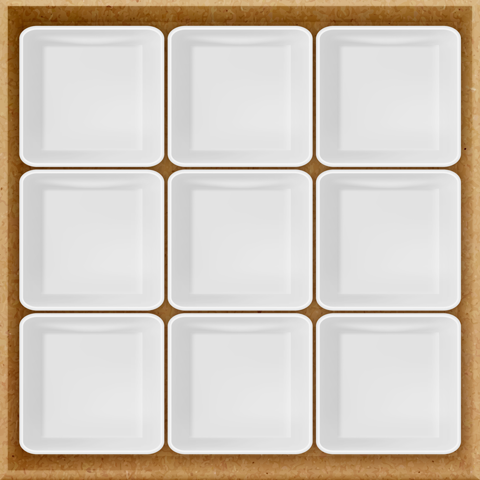
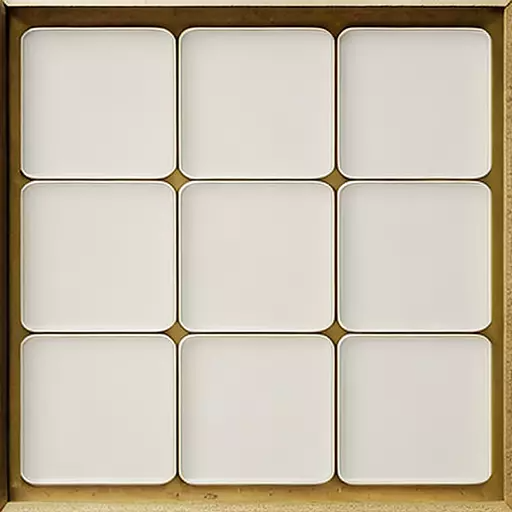
更新備註 更換禮盒圖片

diff --git a/FrontStage/frontend/src/screens/OrderScreen.js b/FrontStage/frontend/src/screens/OrderScreen.js
@@ -9,7 +9,7 @@ import Col from 'react-bootstrap/Col';
 import ListGroup from 'react-bootstrap/ListGroup';
 import Card from 'react-bootstrap/Card';
 import { Link } from 'react-router-dom';
-import LoadingBox from '../components/LoadingBox';
+import Loading from '../components/Loading';
 import MessageBox from '../components/MessageBox';
 import { Store } from '../Store';
 import { useState } from 'react';
@@ -66,10 +66,12 @@ export default function OrderScreen() {
   const { id: orderId } = params;
   console.log(orderId);
   const navigate = useNavigate();
-  //
+
   const [isLoading, setIsLoading] = useState(true);
 
+  //設定初始值
   const [{ loading, error, order, successPay, loadingPay }, dispatch] =
+    //useReducer是一個function 用來更新state 這裡的reducer是一個function 上面有定義
     useReducer(reducer, {
       loading: true,
       order: {},
@@ -77,26 +79,36 @@ export default function OrderScreen() {
       successPay: false,
       loadingPay: false,
     });
-
+  //usePayPalScriptReducer是一個function 用來更新state 來自@paypal/react-paypal-js
+  //isPending是一個布林值 用來判斷是否正在載入
   const [{ isPending }, paypalDispatch] = usePayPalScriptReducer();
 
+  //createOrder是一個function 用來創建訂單 來自@paypal/react-paypal-js data是一個物件 用來傳遞訂單資訊 actions是一個物件 用來創建訂單
   function createOrder(data, actions) {
-    return actions.order
-      .create({
-        purchase_units: [
-          {
-            amount: {
-              value: order.total_price,
+    return (
+      actions.order
+        //create是一個function 用來創建訂單 來自@paypal/react-paypal-js
+        .create({
+          //purchase_units是一個陣列 用來傳遞訂單資訊
+          purchase_units: [
+            {
+              //amount是一個物件 用來傳遞訂單金額
+              amount: {
+                //value是一個數字 用來傳遞訂單金額
+                value: order.total_price,
+              },
             },
-          },
-        ],
-      })
-      .then((orderID) => {
-        return orderID;
-      });
+          ],
+        })
+        //then是一個function 用來傳遞訂單id  來自@paypal/react-paypal-js
+        .then((orderID) => {
+          return orderID;
+        })
+    );
   }
-
+  //onApprove是一個function 用來傳遞訂單資訊 來自@paypal/react-paypal-js
   function onApprove(data, actions) {
+    //actions.order.capture().then代表當訂單被捕獲時執行以下程式碼
     return actions.order.capture().then(async function (details) {
       try {
         dispatch({ type: 'PAY_REQUEST' });
@@ -127,17 +139,21 @@ export default function OrderScreen() {
   }
 
   useEffect(() => {
+    //fetchOrder是一個function 用來獲取訂單資訊 來自@paypal/react-paypal-js
     const fetchOrder = async () => {
       try {
+        //dispatch是一個function 用來更新state 這裡的dispatch是一個function 上面有定義
         dispatch({ type: 'FETCH_REQUEST' });
         //改
         const { data } = await axios.get(`/api/orders/${orderId}`, {
           headers: { authorization: `Bearer ${userInfo.token}` },
         });
+        //data.order_items是一個字串 用來傳遞訂單商品資訊
         data.order_items = JSON.parse(data.order_items);
         data.shipping_address = JSON.parse(data.shipping_address);
         console.log(data.shipping_address);
 
+        //data.order_items是一個陣列 用來傳遞訂單商品資訊
         data.orderItems = data.order_items.map((item) => {
           return {
             _id: item._id,
@@ -162,6 +178,7 @@ export default function OrderScreen() {
       }
     };
 
+    //userInfo是一個物件 用來傳遞使用者資訊
     if (!userInfo) {
       navigate('/login');
     }
@@ -209,15 +226,19 @@ export default function OrderScreen() {
     order.id,
   ]);
 
+  // 如果載入中，顯示Loading
   return loading ? (
-    <LoadingBox></LoadingBox>
-  ) : error ? (
+    <Loading></Loading>
+  ) : // 如果載入失敗，顯示錯誤訊息
+  error ? (
     <MessageBox variant="danger">{error}</MessageBox>
   ) : (
+    // 如果載入成功，顯示訂單資訊
     <Container className="small-container mb-5">
       <Helmet>
         <title>訂單 | 拾月菓 {orderId}</title>
       </Helmet>
+      {/* //PayPalScriptProvider是一個function 用來載入PayPal script 來自@paypal/react-paypal-js */}
       <PayPalScriptProvider options={{ 'client-id': clientId }}>
         <h1 className="my-3">訂單編號 {orderId}</h1>
         <Row>
@@ -329,7 +350,7 @@ export default function OrderScreen() {
                   {!order.is_paid && (
                     <ListGroup.Item>
                       {isPending ? (
-                        <LoadingBox />
+                        <Loading />
                       ) : (
                         <div>
                           <PayPalButtons
@@ -339,7 +360,7 @@ export default function OrderScreen() {
                           ></PayPalButtons>
                         </div>
                       )}
-                      {loadingPay && <LoadingBox></LoadingBox>}
+                      {loadingPay && <Loading></Loading>}
                     </ListGroup.Item>
                   )}
                 </ListGroup>

diff --git a/FrontStage/frontend/src/screens/CartScreen.js b/FrontStage/frontend/src/screens/CartScreen.js
@@ -87,7 +87,9 @@ export default function CartScreen() {
     return map;
   }, {});
 
+  //切換展開的禮盒
   const toggleProductContent = (itemId, giftBoxType) => {
+    //判斷是否展開 如果展開則關閉，如果沒有展開則展開
     if (expandedProduct === itemId) {
       setExpandedProduct(null);
     } else {
@@ -96,7 +98,9 @@ export default function CartScreen() {
     }
   };
 
+  //更新購物車產品數量 這裡的item是從CartScreen.js中的updateCartHandler(item, quantity)傳過來的
   const updateCartHandler = async (item, quantity) => {
+    //如果產品數量小於1，則從購物車中刪除產品
     const { data } = await axios.get(`/api/products/${item._id}`);
     if (data.countInStock < quantity) {
       // swal({
@@ -147,7 +151,9 @@ export default function CartScreen() {
 
   const plus = (item) => {
     if (!MaxHandler(item)) {
+      //這裡的setInput是用來更新input的值 這裡的input是用來顯示產品數量的
       setInput(parseInt(input) + 1);
+      //這裡的updateCartHandler是用來更新購物車產品數量的
       updateCartHandler(item, item.quantity + 1);
     }
     if (item.quantity === 0) {
@@ -174,6 +180,9 @@ export default function CartScreen() {
       updateCartHandler(item, item.quantity - 1);
     }
   };
+  //判斷是否登入 未登入則跳轉到登入頁面
+  //判斷是否登入 未登入則跳轉到登入頁面
+  //判斷是否登入 未登入則跳轉到登入頁面
   const checkoutHandler = () => {
     navigate('/signin?redirect=/shipping');
   };
@@ -391,11 +400,15 @@ export default function CartScreen() {
                                 ? productMap6
                                 : productMap9;
 
+                            //這裡的Object.entries()是用來返回一個給定物件自身可枚舉屬性的鍵值對數組 這裡的productCounts是一個對象 { 產品_id: 產品數量 }
+                            //詳細解釋Object.entries() https://developer.mozilla.org/zh-TW/docs/Web/JavaScript/Reference/Global_Objects/Object/entries
                             return Object.entries(productCounts).map(
                               ([productId, product]) => {
+                                //這裡的 product.count是產品的數量
                                 const count = product.count;
 
                                 return (
+                                  //如果產品的數量大於0，則顯示產品的圖片和數量
                                   count > 0 && (
                                     <div
                                       key={productId}
@@ -406,6 +419,7 @@ export default function CartScreen() {
                                         alt={`selected product ${productId}`}
                                         className="selected-product-image"
                                       />
+                                      {/* //這裡的product.slug是產品的名稱 */}
                                       <span className="ms-3 fs-5">{`${product.slug} x ${count}`}</span>
                                     </div>
                                   )
@@ -433,6 +447,8 @@ export default function CartScreen() {
                       className="text-center fw-bold"
                       style={{ color: 'rgb(78,78,78)' }}
                     >
+                      {/* //這裡的cartItems.reduce((a, c) => a + c.quantity, 0)是用來計算購物車中產品的數量 */}
+                      {/* cartItems.reduce((a, c) => a + c.quantity, 0) 件商品 做法是先把購物車中的產品數量加起來，然後再加上當前產品的數量 */}
                       商品數量 ({cartItems.reduce((a, c) => a + c.quantity, 0)}{' '}
                       件) : NT$&nbsp;
                       {cartItems.reduce((a, c) => a + c.price * c.quantity, 0)}

diff --git a/FrontStage/frontend/src/screens/PlaceOrder.js b/FrontStage/frontend/src/screens/PlaceOrder.js
@@ -19,15 +19,18 @@ import axios from 'axios';
 
 // import { useState } from 'react';
 
+//這裡的reducer是用來更新state的 這個頁面的state
 const reducer = (state, action) => {
   switch (action.type) {
     case 'CREATE_REQUEST':
+      // return { ...state, loading: true }; 這裡的...state是把原本的state複製一份 loading: true是更新state loading的值
       return { ...state, loading: true };
     case 'CREATE_SUCCESS':
       return { ...state, loading: false };
     case 'CREATE_FAIL':
       return { ...state, loading: false };
     default:
+      //如果沒有符合的type 就回傳原本的state
       return state;
   }
 };
@@ -102,17 +105,22 @@ export default function PlaceOrder() {
         cardContent9: state.cardContent9,
       };
 
+      // 下面這行是用來發送訂單資料的 API 請求
+      //orderResponse是後端回傳的資料 data是後端回傳的資料裡面的一個屬性
       const { data: orderResponse } = await Axios.post(
         '/api/orders',
+        //orderData是要傳送的資料
         orderData,
         {
+          //headers是要傳送的資料的格式 這裡是json格式 這裡的token是從userInfo裡面取得 來自於登入時的資料
           headers: {
             Authorization: `Bearer ${userInfo.token}`,
           },
         }
       );
-
+      //ctxDispatch是Store.js裡的dispatch function 用來更新state
       ctxDispatch({ type: 'CART_CLEAR' });
+      //dispatch是這個頁面的dispatch function 用來更新state 來自於useReducer
       dispatch({ type: 'CREATE_SUCCESS' });
       localStorage.removeItem('cartItems');
       sendOrderDetail(orderResponse.order._id); // 將訂單ID作為參數傳遞

diff --git a/FrontStage/frontend/src/screens/OrderHistory.js b/FrontStage/frontend/src/screens/OrderHistory.js
@@ -3,12 +3,14 @@ import React, { useContext, useEffect, useReducer } from 'react';
 import { Helmet } from 'react-helmet-async';
 import axios from 'axios';
 import { useNavigate } from 'react-router-dom';
-import LoadingBox from '../components/LoadingBox';
+
 import MessageBox from '../components/MessageBox';
 import { Store } from '../Store';
+import Loading from '../components/Loading';
 // import { getError } from '../utils';
 import { Container, Button } from 'react-bootstrap';
 
+// 轉換日期格式
 function formatDateTime(dateTimeString) {
   const options = {
     year: 'numeric',
@@ -23,10 +25,13 @@ function formatDateTime(dateTimeString) {
 
   return new Date(dateTimeString).toLocaleString(undefined, options);
 }
-
+//reducer是一個function 用來更新state
 const reducer = (state, action) => {
+  //action是一個物件 有兩個屬性 type和payload
   switch (action.type) {
+    // 這裡的type是自己定義的 FETCH_REQUEST FETCH_SUCCESS FETCH_FAIL
     case 'FETCH_REQUEST':
+      // return { ...state, loading: true }; 這裡的...state是把原本的state複製一份 loading: true是更新state loading的值
       return { ...state, loading: true };
     case 'FETCH_SUCCESS':
       return { ...state, orders: action.payload, loading: false };
@@ -76,7 +81,7 @@ export default function OrderHistory() {
 
       <h1>訂單查詢</h1>
       {loading ? (
-        <LoadingBox></LoadingBox>
+        <Loading></Loading>
       ) : error ? (
         <MessageBox variant="danger">{error}</MessageBox>
       ) : (

diff --git a/FrontStage/frontend/src/screens/CustomizedGiftBox.js b/FrontStage/frontend/src/screens/CustomizedGiftBox.js
@@ -65,7 +65,7 @@ export default function CustomizedGiftBox() {
       <Row>
         <Col className="text-center mb-3">
           <p>四格小資組合</p>
-          <p>NT$480</p>
+          <p>NT$ 480</p>
           <label>
             <div className="d-flex flex-column align-items-center mt-3">
               <img
@@ -93,7 +93,7 @@ export default function CustomizedGiftBox() {
         </Col>
         <Col className="text-center mb-3">
           <p>六格家庭組合</p>
-          <p>NT$680</p>
+          <p>NT$ 680</p>
           <label>
             <div className="d-flex flex-column align-items-center mt-3">
               <img
@@ -121,7 +121,7 @@ export default function CustomizedGiftBox() {
         </Col>
         <Col className="text-center mb-3">
           <p>九格派對組合</p>
-          <p>NT$980</p>
+          <p>NT$ 980</p>
           <label>
             <div className="d-flex flex-column align-items-center mt-3">
               <img

diff --git a/FrontStage/frontend/src/screens/SignTest.js b/FrontStage/frontend/src/screens/SignTest.js
@@ -35,8 +35,13 @@ export default function SignTest() {
     }
   };
   const navigate = useNavigate();
+  //useLocation()是react-router-dom提供的一個hook 可以獲取當前頁面的url search是一個字串 例如: ?redirect=/shipping 代表要導向的頁面是/shipping
+  //search代表網址中?後面的部分 useLocation()用來獲取當前頁面的url ?後面的部分  甚麼時候會有? 例如: /signin?redirect=/shipping
   const { search } = useLocation();
+  // redirectInUrl是一個字串 例如: redirect=/shipping
+  // new URLSearchParams(search) 會把search這個字串轉成一個物件 {redirect: "/shipping"}
   const redirectInUrl = new URLSearchParams(search).get('redirect');
+  // redirect是一個字串 例如: /shipping  如果沒有redirectInUrl 就導向首頁
   const redirect = redirectInUrl ? redirectInUrl : '/';
 
   const [name, setName] = useState('');

diff --git a/FrontStage/frontend/src/screens/GiftCard.js b/FrontStage/frontend/src/screens/GiftCard.js
@@ -49,6 +49,7 @@ const GiftCard = () => {
     dispatch({ type: 'UPDATE_SELECTED_CARD', payload: card });
   };
 
+  //設定卡片內容 (限制字數)
   const handleContentChange = (event) => {
     const content = event.target.value;
     // 檢查是否超過最大字數限制，如果超過，則截斷內容
@@ -69,6 +70,7 @@ const GiftCard = () => {
     dispatch({ type: 'UPDATE_CARD_CONTENT', payload: content });
   };
 
+  //預設卡片樣式
   useEffect(() => {
     handleCardSelect('綠色');
     // eslint-disable-next-line react-hooks/exhaustive-deps

diff --git a/FrontStage/frontend/src/Try.js b/FrontStage/frontend/src/Try.js
@@ -4,15 +4,6 @@ function Try() {
   return (
     <>
       <div className="container ">
-        {/* <header className="hero os">
-      <hgroup>
-        <h2 className="textTry vintage">VINTAGE</h2>
-        <h2 className="textTry illustration">ILLUSTRATION</h2>
-        <h2 className="textTry nature">NATURE</h2>
-        <div className="flowerTry" />
-        <div className="frame" />
-      </hgroup>
-    </header> */}
         <section className="os">
           <div className="inner set-left align-items-center">
             <br />

diff --git a/FrontStage/frontend/src/screens/PaymentMethod.js b/FrontStage/frontend/src/screens/PaymentMethod.js
@@ -31,9 +31,12 @@ export default function PaymentMethod() {
     setPaymentMethod(newMethod);
   };
 
+  // 這裡的type是自己定義的 SAVE_PAYMENT_METHOD
   const submitHandler = (e) => {
     e.preventDefault();
+    // 用來更新state paymentMethod的值
     ctxDispatch({ type: 'SAVE_PAYMENT_METHOD', payload: paymentMethodName });
+    // 把paymentMethod的值存到localStorage
     localStorage.setItem('paymentMethod', paymentMethodName);
     navigate('/placeorder');
   };
